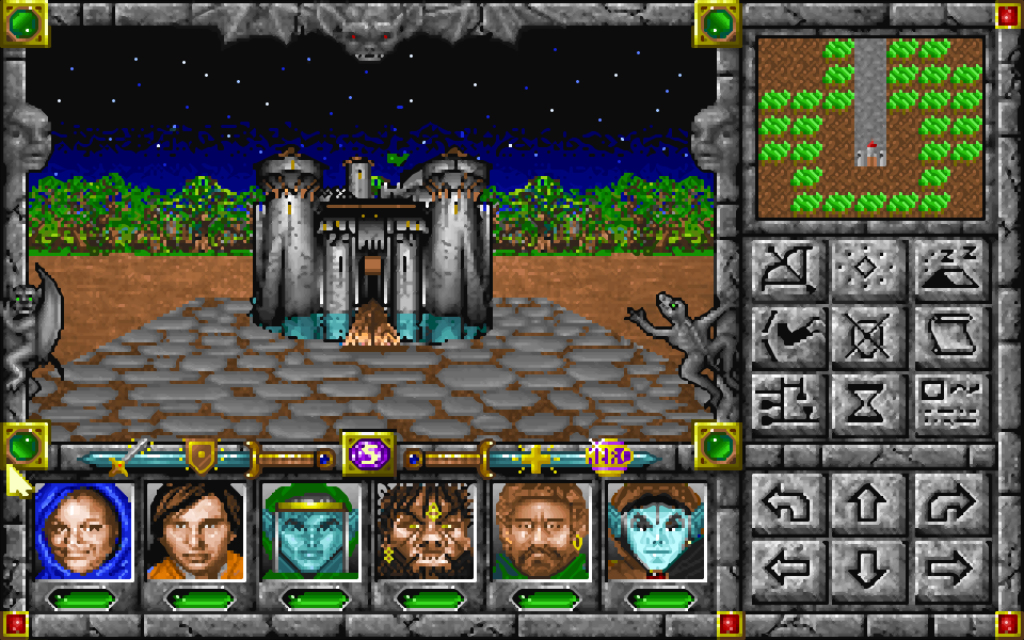
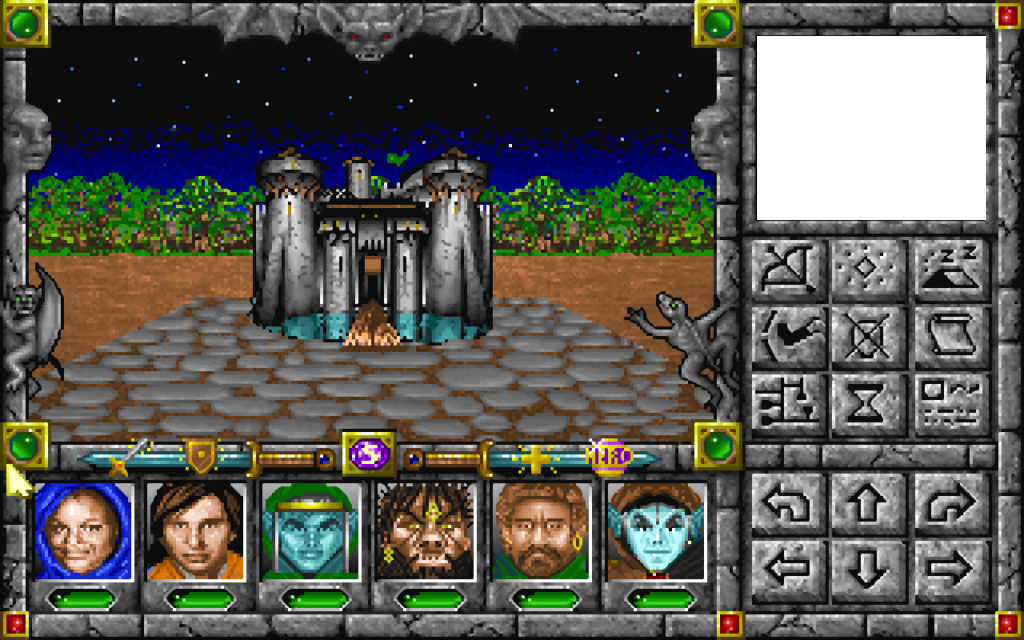
hashmap for map added

Changed region(s): [[0.7188, 0.0312, 0.9688, 0.3438]]

diff --git a/src/Game/ClassicRPGGame.java b/src/Game/ClassicRPGGame.java
@@ -12,9 +12,12 @@ public class ClassicRPGGame implements ActionListener {
     private static JFrame frame;
     private static JPanel panel;
     JLabel backgroundLabel;
+    JLabel mapLabel;
     BufferedImage playerArrowImage;
     JLabel playerArrowLabel;
     String wherePlayerLook = "";
+    int mapX = 538;
+    int mapY = -116;
 
     int counter = 0;
 
@@ -35,6 +38,10 @@ public class ClassicRPGGame implements ActionListener {
         ActionListener exitButtonActionListener = new exitButtonActionListener();
         ActionListener upLeftButtonActionListener = new upLeftButtonActionListener();
         ActionListener upRightButtonActionListener = new upRightButtonActionListener();
+        ActionListener downButtonActionListener = new downButtonActionListener();
+        ActionListener upButtonActionListener = new upButtonActionListener();
+        ActionListener leftButtonActionListener = new leftButtonActionListener();
+        ActionListener rightButtonActionListener = new rightButtonActionListener();
 
         BufferedImage bowButtonIcon = ImageIO.read(new File("src/Game/img/buttons/bowbutton.JPG"));
         JButton bowButton = new JButton(new ImageIcon(bowButtonIcon));
@@ -69,7 +76,7 @@ public class ClassicRPGGame implements ActionListener {
         upbutton.setFocusPainted(false);
         upbutton.setContentAreaFilled(false);
         upbutton.setBounds(825,470,88,71);
-        upbutton.addActionListener(this);
+        upbutton.addActionListener(upButtonActionListener);
         panel.add(upbutton);
 
         BufferedImage uprightbuttonicon = ImageIO.read(new File("src/Game/img/buttons/upright.JPG"));
@@ -87,7 +94,7 @@ public class ClassicRPGGame implements ActionListener {
         leftbutton.setFocusPainted(false);
         leftbutton.setContentAreaFilled(false);
         leftbutton.setBounds(746,538,83,67);
-        leftbutton.addActionListener(this);
+        leftbutton.addActionListener(leftButtonActionListener);
         panel.add(leftbutton);
 
         BufferedImage downbuttonicon = ImageIO.read(new File("src/Game/img/buttons/down.JPG"));
@@ -96,7 +103,7 @@ public class ClassicRPGGame implements ActionListener {
         downbutton.setFocusPainted(false);
         downbutton.setContentAreaFilled(false);
         downbutton.setBounds(828,538,82,68);
-        downbutton.addActionListener(this);
+        downbutton.addActionListener(downButtonActionListener);
         panel.add(downbutton);
 
         BufferedImage rightbuttonicon = ImageIO.read(new File("src/Game/img/buttons/right.JPG"));
@@ -105,19 +112,24 @@ public class ClassicRPGGame implements ActionListener {
         rightbutton.setFocusPainted(false);
         rightbutton.setContentAreaFilled(false);
         rightbutton.setBounds(910,538,82,68);
-        rightbutton.addActionListener(this);
+        rightbutton.addActionListener(rightButtonActionListener);
         panel.add(rightbutton);
 
-        playerArrowImage = ImageIO.read(new File("src/Game/img/playerArrow/playerArrow1.JPG"));
+        playerArrowImage = ImageIO.read(new File("src/Game/img/playerArrow/playerArrow1.png"));
         wherePlayerLook = "south";
         playerArrowLabel = new JLabel(new ImageIcon(playerArrowImage));
         playerArrowLabel.setBounds(856,112,32,28);
         panel.add(playerArrowLabel);
 
-        BufferedImage backgroundImage = ImageIO.read(new File("src/Game/img/Newcastle.png"));
+        BufferedImage backgroundImage = ImageIO.read(new File("src/Game/img/castleBlack.png"));
         backgroundLabel = new JLabel(new ImageIcon(backgroundImage));
         backgroundLabel.setBounds(0,0,1024,640);
         panel.add(backgroundLabel);
+
+        BufferedImage mapImage = ImageIO.read(new File("src/Game/img/map.png"));
+        mapLabel = new JLabel(new ImageIcon(mapImage));
+        mapLabel.setBounds(mapX,mapY,667,532);
+        panel.add(mapLabel);
 
         frame.setVisible(true);
     }
@@ -128,11 +140,13 @@ public class ClassicRPGGame implements ActionListener {
                try {
                    panel.remove(playerArrowLabel);
                    panel.remove(backgroundLabel);
-                   playerArrowImage = ImageIO.read(new File("src/Game/img/playerArrow/playerArrow2.JPG"));
+                   panel.remove(mapLabel);
+                   playerArrowImage = ImageIO.read(new File("src/Game/img/playerArrow/playerArrow2.png"));
                    playerArrowLabel = new JLabel(new ImageIcon(playerArrowImage));
                    playerArrowLabel.setBounds(856,112,32,28);
                    panel.add(playerArrowLabel);
                    panel.add(backgroundLabel);
+                   panel.add(mapLabel);
                    panel.updateUI();
                    wherePlayerLook = "east";
                    System.out.println("Player look: " + wherePlayerLook);
@@ -144,11 +158,13 @@ public class ClassicRPGGame implements ActionListener {
                 try {
                     panel.remove(playerArrowLabel);
                     panel.remove(backgroundLabel);
-                    playerArrowImage = ImageIO.read(new File("src/Game/img/playerArrow/playerArrow3.JPG"));
+                    panel.remove(mapLabel);
+                    playerArrowImage = ImageIO.read(new File("src/Game/img/playerArrow/playerArrow3.png"));
                     playerArrowLabel = new JLabel(new ImageIcon(playerArrowImage));
                     playerArrowLabel.setBounds(856,112,32,28);
                     panel.add(playerArrowLabel);
                     panel.add(backgroundLabel);
+                    panel.add(mapLabel);
                     panel.updateUI();
                     wherePlayerLook = "north";
                     System.out.println("Player look: " + wherePlayerLook);
@@ -160,12 +176,14 @@ public class ClassicRPGGame implements ActionListener {
                 try {
                     panel.remove(playerArrowLabel);
                     panel.remove(backgroundLabel);
+                    panel.remove(mapLabel);
                     panel.updateUI();
-                    playerArrowImage = ImageIO.read(new File("src/Game/img/playerArrow/playerArrow4.JPG"));
+                    playerArrowImage = ImageIO.read(new File("src/Game/img/playerArrow/playerArrow4.png"));
                     playerArrowLabel = new JLabel(new ImageIcon(playerArrowImage));
                     playerArrowLabel.setBounds(856,112,32,28);
                     panel.add(playerArrowLabel);
                     panel.add(backgroundLabel);
+                    panel.add(mapLabel);
                     panel.updateUI();
                     wherePlayerLook = "west";
                     System.out.println("Player look: " + wherePlayerLook);
@@ -177,12 +195,14 @@ public class ClassicRPGGame implements ActionListener {
                 try {
                     panel.remove(playerArrowLabel);
                     panel.remove(backgroundLabel);
+                    panel.remove(mapLabel);
                     panel.updateUI();
-                    playerArrowImage = ImageIO.read(new File("src/Game/img/playerArrow/playerArrow1.JPG"));
+                    playerArrowImage = ImageIO.read(new File("src/Game/img/playerArrow/playerArrow1.png"));
                     playerArrowLabel = new JLabel(new ImageIcon(playerArrowImage));
                     playerArrowLabel.setBounds(856,112,32,28);
                     panel.add(playerArrowLabel);
                     panel.add(backgroundLabel);
+                    panel.add(mapLabel);
                     panel.updateUI();
                     wherePlayerLook = "south";
                     System.out.println("Player look: " + wherePlayerLook);
@@ -199,11 +219,13 @@ public class ClassicRPGGame implements ActionListener {
                 try {
                     panel.remove(playerArrowLabel);
                     panel.remove(backgroundLabel);
-                    playerArrowImage = ImageIO.read(new File("src/Game/img/playerArrow/playerArrow4.JPG"));
+                    panel.remove(mapLabel);
+                    playerArrowImage = ImageIO.read(new File("src/Game/img/playerArrow/playerArrow4.png"));
                     playerArrowLabel = new JLabel(new ImageIcon(playerArrowImage));
                     playerArrowLabel.setBounds(856,112,32,28);
                     panel.add(playerArrowLabel);
                     panel.add(backgroundLabel);
+                    panel.add(mapLabel);
                     panel.updateUI();
                     wherePlayerLook = "west";
                     System.out.println("Player look: " + wherePlayerLook);
@@ -215,11 +237,13 @@ public class ClassicRPGGame implements ActionListener {
                 try {
                     panel.remove(playerArrowLabel);
                     panel.remove(backgroundLabel);
-                    playerArrowImage = ImageIO.read(new File("src/Game/img/playerArrow/playerArrow3.JPG"));
+                    panel.remove(mapLabel);
+                    playerArrowImage = ImageIO.read(new File("src/Game/img/playerArrow/playerArrow3.png"));
                     playerArrowLabel = new JLabel(new ImageIcon(playerArrowImage));
                     playerArrowLabel.setBounds(856,112,32,28);
                     panel.add(playerArrowLabel);
                     panel.add(backgroundLabel);
+                    panel.add(mapLabel);
                     panel.updateUI();
                     wherePlayerLook = "north";
                     System.out.println("Player look: " + wherePlayerLook);
@@ -231,12 +255,14 @@ public class ClassicRPGGame implements ActionListener {
                 try {
                     panel.remove(playerArrowLabel);
                     panel.remove(backgroundLabel);
+                    panel.remove(mapLabel);
                     panel.updateUI();
-                    playerArrowImage = ImageIO.read(new File("src/Game/img/playerArrow/playerArrow2.JPG"));
+                    playerArrowImage = ImageIO.read(new File("src/Game/img/playerArrow/playerArrow2.png"));
                     playerArrowLabel = new JLabel(new ImageIcon(playerArrowImage));
                     playerArrowLabel.setBounds(856,112,32,28);
                     panel.add(playerArrowLabel);
                     panel.add(backgroundLabel);
+                    panel.add(mapLabel);
                     panel.updateUI();
                     wherePlayerLook = "east";
                     System.out.println("Player look: " + wherePlayerLook);
@@ -248,12 +274,14 @@ public class ClassicRPGGame implements ActionListener {
                 try {
                     panel.remove(playerArrowLabel);
                     panel.remove(backgroundLabel);
+                    panel.remove(mapLabel);
                     panel.updateUI();
-                    playerArrowImage = ImageIO.read(new File("src/Game/img/playerArrow/playerArrow1.JPG"));
+                    playerArrowImage = ImageIO.read(new File("src/Game/img/playerArrow/playerArrow1.png"));
                     playerArrowLabel = new JLabel(new ImageIcon(playerArrowImage));
                     playerArrowLabel.setBounds(856,112,32,28);
                     panel.add(playerArrowLabel);
                     panel.add(backgroundLabel);
+                    panel.add(mapLabel);
                     panel.updateUI();
                     wherePlayerLook = "south";
                     System.out.println("Player look: " + wherePlayerLook);
@@ -261,6 +289,58 @@ public class ClassicRPGGame implements ActionListener {
                     ioException.printStackTrace();
                 }
             }
+        }
+    }
+
+    public class downButtonActionListener implements ActionListener {
+        public void actionPerformed(ActionEvent e) {
+            panel.remove(backgroundLabel);
+            panel.remove(mapLabel);
+            panel.updateUI();
+            mapY = mapY - 20;
+            mapLabel.setBounds(mapX,mapY,667,532);
+            panel.add(backgroundLabel);
+            panel.add(mapLabel);
+            panel.updateUI();
+        }
+    }
+
+    public class upButtonActionListener implements ActionListener {
+        public void actionPerformed(ActionEvent e) {
+            panel.remove(backgroundLabel);
+            panel.remove(mapLabel);
+            panel.updateUI();
+            mapY = mapY + 20;
+            mapLabel.setBounds(mapX,mapY,667,532);
+            panel.add(backgroundLabel);
+            panel.add(mapLabel);
+            panel.updateUI();
+        }
+    }
+
+    public class leftButtonActionListener implements ActionListener {
+        public void actionPerformed(ActionEvent e) {
+            panel.remove(backgroundLabel);
+            panel.remove(mapLabel);
+            panel.updateUI();
+            mapX = mapX + 31;
+            mapLabel.setBounds(mapX,mapY,667,532);
+            panel.add(backgroundLabel);
+            panel.add(mapLabel);
+            panel.updateUI();
+        }
+    }
+
+    public class rightButtonActionListener implements ActionListener {
+        public void actionPerformed(ActionEvent e) {
+            panel.remove(backgroundLabel);
+            panel.remove(mapLabel);
+            panel.updateUI();
+            mapX = mapX - 31;
+            mapLabel.setBounds(mapX,mapY,667,532);
+            panel.add(backgroundLabel);
+            panel.add(mapLabel);
+            panel.updateUI();
         }
     }
 

diff --git a/src/Game/MapLoader.java b/src/Game/MapLoader.java
@@ -35,12 +35,22 @@ public class MapLoader {
                     mapBlock.setPic("src/Game/img/onlyRoad.png");
                     mapBlock.setName("Road");
                 }
+                else if (letter == 'C') {
+                    mapBlock.setBlock(true);
+                    mapBlock.setPic("src/Game/img/castleBlack.png");
+                    mapBlock.setName("Castle");
+                }
+                else if (letter == 'T') {
+                    mapBlock.setBlock(true);
+                    mapBlock.setPic("src/Game/img/tipaForest.png");
+                    mapBlock.setName("Castle");
+                }
                 blocks.put(counter, mapBlock);
                 counter++;
             }
             posX++;
         }
-        System.out.println("test mapBlocks");
+      //  System.out.println("test mapBlocks");
     }
 
     public Character blockLetter(int posX, int posY){
